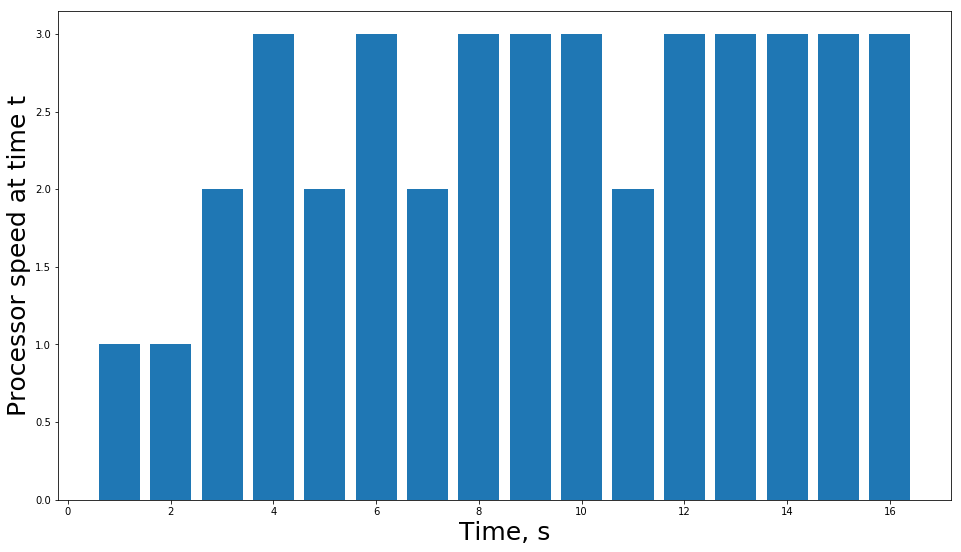
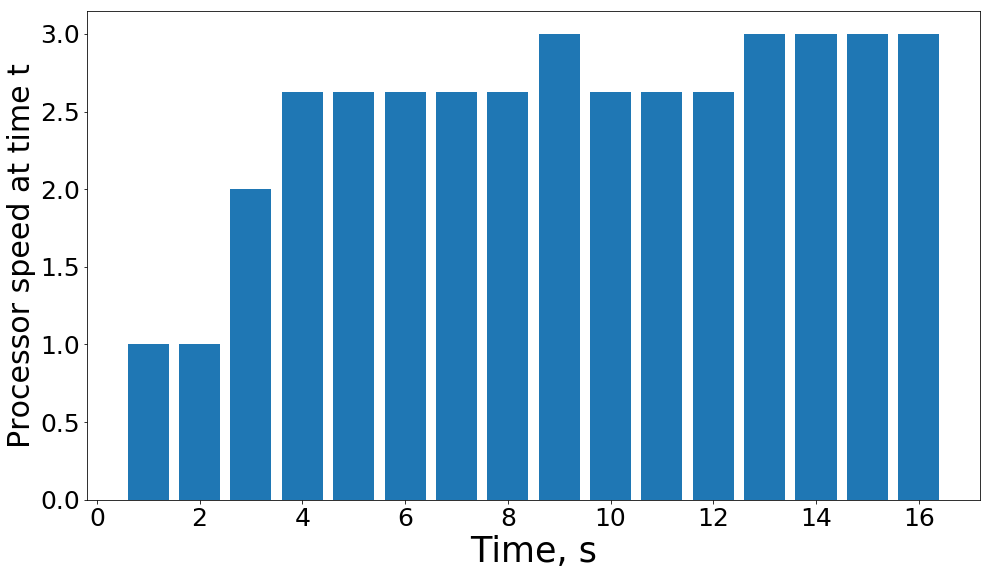
minor updates (ticks font size + sched image)

Changed region(s): [[0.0, 0.0616, 0.999, 0.9855], [0.0937, 0.0, 0.999, 0.0616], [0.0312, 0.0308, 0.0937, 0.0924]]

diff --git a/report.tex b/report.tex
@@ -63,10 +63,17 @@ $$\sum \limits_{i=0}^{T-1} X_{ij} \ge W_j,$$ где $W_j$ - работа, кот
 
 \section{Результаты экспериментов}
 
+Разные процессы доступны в разные промежутки времени (график допустимости процессов во времени на Рис.~\ref{ris:sched})
+
+\begin{figure}[h]
+\center{\includegraphics[width=12cm]{sched.png}}
+\caption{Зависимость точности от числа итераций}
+\label{ris:sched}
+\end{figure}
+
 В результате вычислений методами ECOS и SCS мы получили распределение ресурсов по процессам(Рис.~\ref{ris:pow} и Рис.~\ref{ris:speed} ), которое  отличается при решении разными методами, однако оба решения удовлетворяют ограничениям и дают одинаковое суммарное значение энергии. Решения получаются различными, так как они лежат на одной линии уровня, отвечающей минимальному значению функции.\\
 
-\centering
-\begin{figure}[ht]
+\begin{figure}[h]
 \subfloat[ECOS]{
     \includegraphics[width=8cm]{ecos_proc.png}
     \label{ris:ECOS_pow}
@@ -81,8 +88,7 @@ $$\sum \limits_{i=0}^{T-1} X_{ij} \ge W_j,$$ где $W_j$ - работа, кот
 
 И значение скорости процессора во времени:\\
 
-\centering
-\begin{figure}[ht]
+\begin{figure}[h]
 \subfloat[ECOS]{
     \includegraphics[width=8cm]{ecos_time.png}
     \label{ris:ECOS_speed}
@@ -96,17 +102,20 @@ $$\sum \limits_{i=0}^{T-1} X_{ij} \ge W_j,$$ где $W_j$ - работа, кот
 \end{figure}
 
 
-Также была оценена зависимость точности вычисления от числа итераций, см. Рис.~\ref{ris:PREC_iter}\\
+Также была оценена зависимость точности вычисления от числа итераций, см. Рис.~\ref{ris:PREC_iter}
 
-\centering
 \begin{figure}[h]
 \center{\includegraphics[width=12cm]{cmp_1.png}}
 \caption{Зависимость точности от числа итераций}
 \label{ris:PREC_iter}
 \end{figure}
-
-Сравнение SCS и ECOS при решении задачи с точностью $10^{-9}$:\\
 \\
+$~$
+\\
+$~$
+\\
+Сравнение SCS и ECOS при решении задачи с точностью $10^{-9}$:
+
 \begin{center}
 \begin{tabular}{c|c|c|c}
      &  \# iter & Total time, ms & Dual gap \\
@@ -115,13 +124,12 @@ $$\sum \limits_{i=0}^{T-1} X_{ij} \ge W_j,$$ где $W_j$ - работа, кот
      \hline
      SCS & 1186 & 129& $2.4\cdot{10^{-12}}$ \\
 \end{tabular}
-\end{center}\\
+\end{center}
 
 Получили, что ECOS нужно сделать гораздо меньше итераций, чем SCS, для достижения заданной точности (как это видно из графика на Рис.~\ref{ris:PREC_iter}), также скорость выполнения SCS ниже, то есть выгоднее пользоваться ECOS (метод внутренней точки). Также получили оценки зазора двойственности: $9\cdot{10^{-7}}$ для ECOS и $2.4\cdot{10^{-12}}$ для SCS, т.е. при решении методом SCS зазор двойственности меньше. 
 
 Однако, после некоторых раздумий, было принято предположение, что нагрузка (равно как и скорость) процессора должна быть целочисленная. Тогда была найдена модификация ECOS - ECOS\_BB, результат можно видеть на Рис.~\ref{ris:ECOSBB_pow} и Рис.~\ref{ris:ECOSBB_speed}.
 
-\centering
 \begin{figure}[h]
 \subfloat[Распределение нагрузки]{
     \includegraphics[width=10cm]{ecosbb_proc.png}
@@ -146,8 +154,7 @@ $$\sum \limits_{i=0}^{T-1} X_{ij} \ge W_j,$$ где $W_j$ - работа, кот
 
 Кроме того, в многопоточных системах при использовании пула потоков возникает необходимость в статическом планировании. Потоки для фрагментов задания будут определяться заранее, наше решение поможет оптимизировать это распределение.\\
 
-Еще одно применение - распределение задач в проекте внутри команды. Только необходимо ограничить число одновременно-запущенных процессов числом членов команды (или какой-то величиной, зависящей от этого числа).\\
-
+Еще одно применение - распределение задач в проекте внутри команды. Только необходимо ограничить число одновременно-запущенных процессов числом членов команды (или какой-то величиной, зависящей от этого числа).
 
 \section{Список литературы}
 \bibliography{CPUlibNEW}
